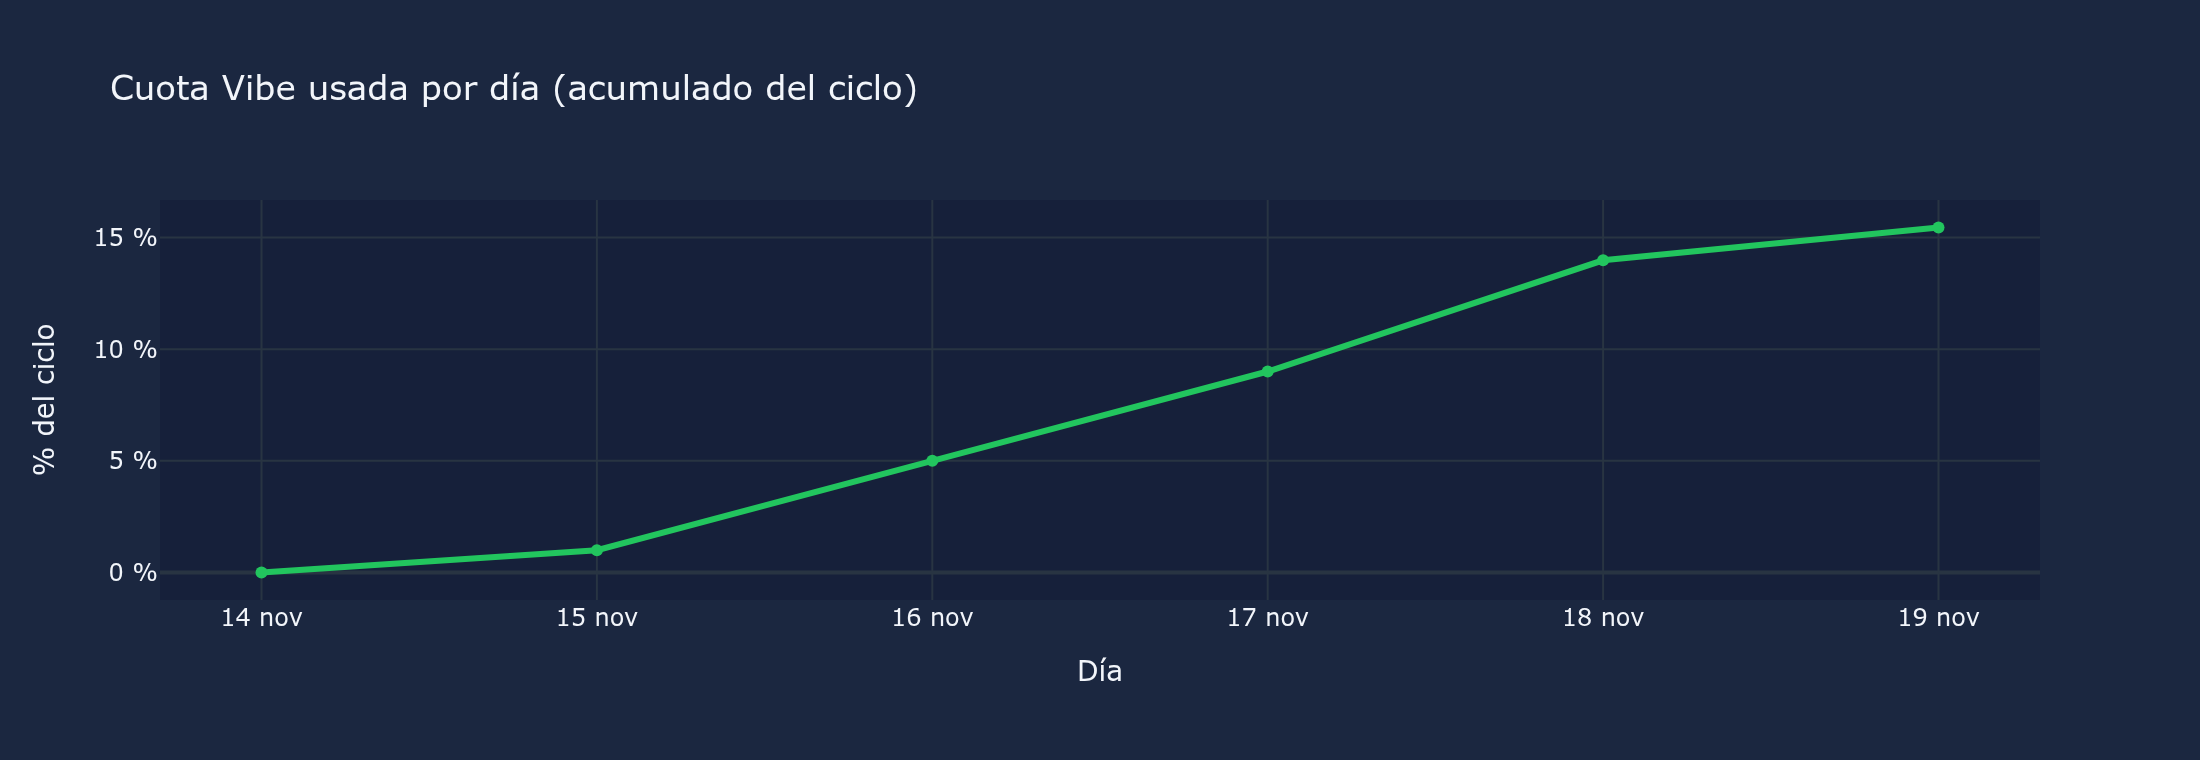
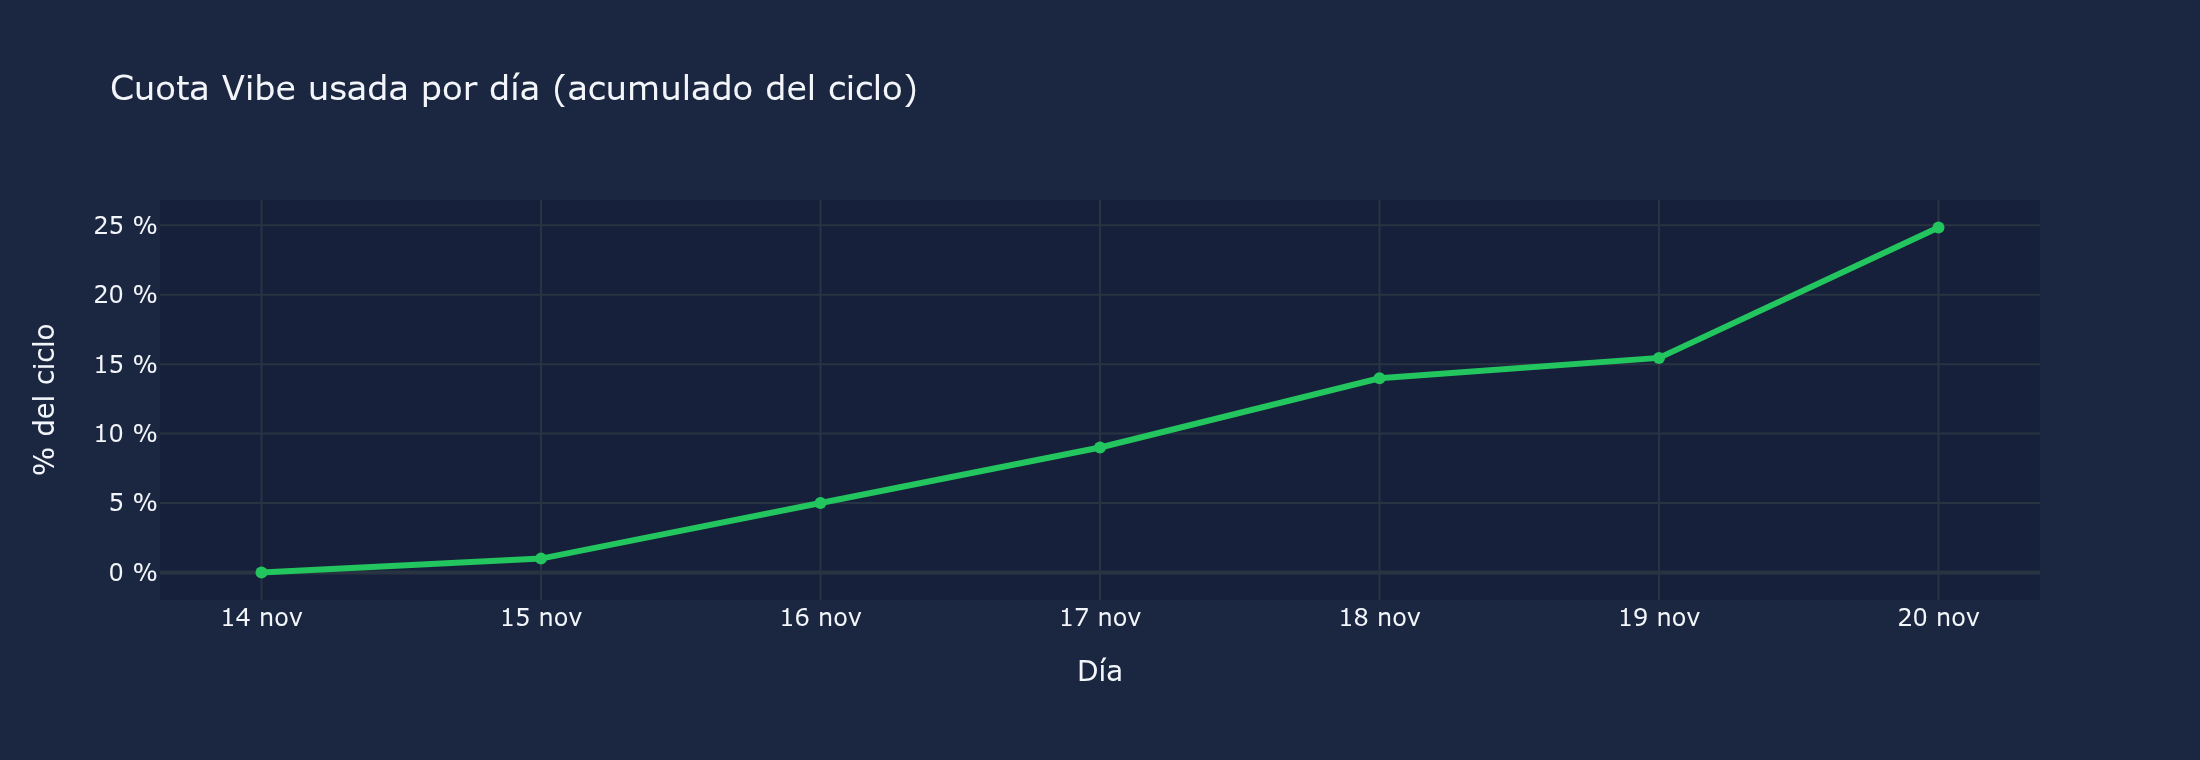
chore(accounting): regenerate static site from live data
Published tree rebuilt by accounting/build_static_site.py rather than by
hand: the previous tree was serving 20.40% while the live reading was
23.36%, the same staleness defect as the allowance series in a different
costume.

Verified: zero <script>, zero CDN, 26 fichas with relative links, OKF on
every chart with generated timestamp and stale_after. The build refuses to
publish without a live reading, because a site with an invented figure is
worse than no site.

Figures are a snapshot of build time; the OKF header carries the age so a
reader can see it rather than assume freshness.

diff --git a/docs/accounting/index.html b/docs/accounting/index.html
@@ -1,19 +1,21 @@
 <!-- OKF-METADATA
+---
 type: Dashboard Page
-title: "ContaMNG — cuota, coste y financiación (vista estática)"
+title: "CONTA — cuota, coste y financiación (vista estática)"
 description: "Versión estática publicable del dashboard: datos reales del ciclo, gráficos como imágenes, sin JavaScript ni CDN."
 status: verified
-generated: 2026-11-20T01:51:00+01:00
+generated: 2026-11-20T23:04:19+01:00
 source:
   - "usage.db (tokens por día y modelo, registrado del proveedor)"
   - "read_quota() sobre la API de suscripción"
   - "journalctl --user -u mistral-gateway (serie de allowance)"
 verified: 2026-11-20
 stale_after: 2026-12-01
+---
 -->
 <!DOCTYPE html>
 <html lang="es"><head><meta charset="utf-8">
-<title>ContaMNG · Cuota Vibe</title>
+<title>CONTA · Cuota Vibe</title>
 <link rel="icon" href="favicon.svg" type="image/svg+xml">
 <style>
  body{font-family:system-ui,sans-serif;background:#0f172a;color:#e2e8f0;margin:24px auto;max-width:1200px;line-height:1.5}
@@ -35,15 +37,16 @@ stale_after: 2026-12-01
 <a href="#inventario">Inventario</a><a href="#mapa">Mapa de financiación</a><a href="#graficos">Gráficos</a>
 </nav>
 
-<h1>💰 ContaMNG · Suscripción Mistral Vibe</h1>
-<p class="muted">Plan Individual · 18,14 €/mes · presupuesto 255 € por ciclo · PAYG desactivado ·
-reset 2026-12-01 · <b>objetivo: aprovechar la cuota sin derrocharla y sin quedarse corto</b></p>
+<h1>💰 CONTA · Suscripción Mistral Vibe</h1>
+<p class="muted">Plan Individual · 18,14 €/mes · presupuesto 255 € por ciclo ·
+PAYG desactivado · reset 2026-12-01 · <b>objetivo: aprovechar la cuota sin derrocharla y sin quedarse corto</b></p>
 
 <div class="kpi">
-<div><span class="lbl">Cuota usada</span><br>18,49 % = 47,14 € de 255 €<br><span class="sub">medido con read_quota()</span></div>
-<div><span class="lbl">Cuota libre</span><br>207,86 €<br><span class="sub">PAYG off: lo que sobre no se factura</span></div>
-<div><span class="lbl">Ritmo reciente</span><br>1,47 pp/día = 0,27 € suscr./día<br><span class="sub">última medición</span></div>
-<div><span class="lbl">Ritmo requerido</span><br>7,69 pp/día<br><span class="sub">para llegar al 100 % el reset</span></div>
+<div><span class="lbl">Cuota usada</span><br>24,84 % = 63,34 € de 255 €<br><span class="sub">medido con read_quota()</span></div>
+<div><span class="lbl">Cuota libre</span><br>191,66 €<br><span class="sub">PAYG off: lo que sobre no se factura</span></div>
+<div><span class="lbl">Ritmo reciente</span><br>9,39 pp/día = 1,70 € suscr./día<br><span class="sub">última medición</span></div>
+<div><span class="lbl">Ritmo requerido</span><br>6,83 pp/día<br><span class="sub">para llegar al 100 % el reset</span></div>
+<div><span class="lbl">Agotamiento</span><br>8 días (0,3 meses) · se agota 3 días antes del reset<br><span class="sub">al ritmo reciente, en puntos de cuota</span></div>
 <div><span class="lbl">Economía del plan</span><br>1 pp = 2,55 € de presupuesto = 0,1814 € de lo que pagas<br><span class="sub">fijo: 1,07 €/día en un ciclo de 17 días</span></div>
 <div><span class="lbl">Ciclo</span><br>día 7 de 17<br><span class="sub">contratada el 14-nov, reset el día 1</span></div>
 </div>
@@ -62,7 +65,7 @@ la página es un HTML plano que puedes abrir desde cualquier sitio.</p>
 <tr><td><b>ricardo-HP-Xubuntu</b> (laptop)</td><td>Intel i3-6006U 2C/4T @ 2.0 GHz (Skylake)</td><td>12 GB (11 GiB usables)</td><td>Intel HD 520 + AMD Radeon R5 M330 (2.048 MB dedicados)</td><td>/ 81 GB (90 %) · /home 369 GB (93 %)</td></tr>
 <tr><td><b>ricardoPC</b> (escritorio)</td><td>AMD Athlon 200GE 2C/4T @ 3.2 GHz (Zen)</td><td>13 Gi</td><td>NVIDIA RTX 3060 — 12.288 MiB (medido con nvidia-smi)</td><td>/ 64 GB (31 %) · /home 679 GB (94 %) · 3 discos más</td></tr>
 </table>
-<p class="muted" style="padding:0 6px 6px">HP medido in situ (lscpu/free/lspci/lsblk/df). ricardoPC medido por TelfMNG vía SSH con nvidia-smi.</p>
+<p class="muted" style="padding:0 6px 6px">HP medido in situ (lscpu/free/lspci/lsblk/df). ricardoPC medido por INFRA vía SSH con nvidia-smi.</p>
 </div>
 
 <h2 id="mapa">🗺 Mapa de financiación</h2>
@@ -71,6 +74,7 @@ cuantía, plazo, requisitos duros, encaje y fuentes con fecha de consulta.</p>
 <p><a href="mapa_completo.html">Ver el mapa completo</a> · <a href="opcion1.html">Ficha ampliada: crédito fiscal I+D+i</a> · <a href="fichas/1-nlnet-restack.html">Ficha #1: NLnet / Restack</a></p>
 
 <hr style="border-color:#2d3f63;margin:24px 0 12px">
-<p class="muted">Generado el 2026-11-20 · datos de <code>usage.db</code>, <code>read_quota()</code> y
-<code>journalctl</code> · cifras en formato español (coma decimal, punto de miles).</p>
+<p class="muted">Generado el 2026-11-20 a las 23:04 · datos de
+<code>usage.db</code>, <code>read_quota()</code> y <code>journalctl</code> · cifras en formato
+español (coma decimal, punto de miles).</p>
 </body></html>

diff --git a/docs/accounting/fichas/1-nlnet-restack.html b/docs/accounting/fichas/1-nlnet-restack.html
@@ -27,7 +27,7 @@ stale_after: 2027-06-30
 <tr><td style="padding:8px 14px;background:#16203a"><b>Fuentes (consultadas 18-19 nov 2026)</b></td><td style="padding:8px 14px;background:#16203a">nlnet.nl/propose<br>nlnet.nl/restack<br>eunita.eu/open-calls/restack-open-call-2</td></tr>
 <tr><td style="padding:8px 14px"><b>Estado verificación</b></td><td style="padding:8px 14px">DATO de la fuente citada — verificación documental oficial pendiente (ORQ/Ricardo)</td></tr>
 </table>
-<h2 style="font-size:1.05rem;margin:20px 0 8px">Análisis ContaMNG</h2>
+<h2 style="font-size:1.05rem;margin:20px 0 8px">Análisis CONTA</h2>
 <p>Encaje temático exacto con <b>mistral-gateway</b>: proxy OpenAI-compatible libre, anti vendor lock-in, que es justo la tesis del programa ("operational internet commons").</p>
 <ul>
 <li><b>Sin co-financiación</b>: no hay que aportar dinero propio.</li>

diff --git a/docs/accounting/mapa_completo.html b/docs/accounting/mapa_completo.html
@@ -1,14 +1,16 @@
 <!-- OKF-METADATA
+---
 type: Navigation Page
 title: "Mapa de financiación — vista completa"
 description: "Contenedor del mapa de financiación en la vista estática publicable. Sin JavaScript."
 status: verified
-generated: 2026-11-20T01:52:34+01:00
+generated: 2026-11-20T23:04:19+01:00
 source:
   - "accounting/mapa_financiacion.md (26 vías con fuente y fecha)"
   - "accounting/fichas/*.html"
 verified: 2026-11-20
 stale_after: 2026-12-01
+---
 -->
 <!DOCTYPE html>
 <html lang="es"><head><meta charset="utf-8"><title>Mapa de financiación</title>

diff --git a/docs/accounting/README.md b/docs/accounting/README.md
@@ -1,17 +1,17 @@
 ---
 type: Readme
-title: "ContaMNG — dashboard estático publicable"
+title: "CONTA — dashboard estático publicable"
 description: "Versión estática del dashboard de cuota, coste y financiación: HTML plano, gráficos como imágenes, sin JavaScript ni CDN. Datos reales del ciclo."
 tags: [publicación, estático, contabilidad]
 status: verified
 generated: 2026-11-20T02:00:00+01:00
 source:
-  - "accounting/ (árbol de trabajo de ContaMNG en mistral-gateway)"
+  - "accounting/ (árbol de trabajo de CONTA en mistral-gateway)"
 verified: 2026-11-20
 stale_after: 2026-12-01
 ---
 
-# ContaMNG — dashboard estático
+# CONTA — dashboard estático
 
 Esta carpeta es la **versión publicable** del dashboard de contabilidad. Se puede abrir desde
 cualquier sitio (incluso con `file://`) o servir desde GitHub Pages bajo un subpath: todos los
